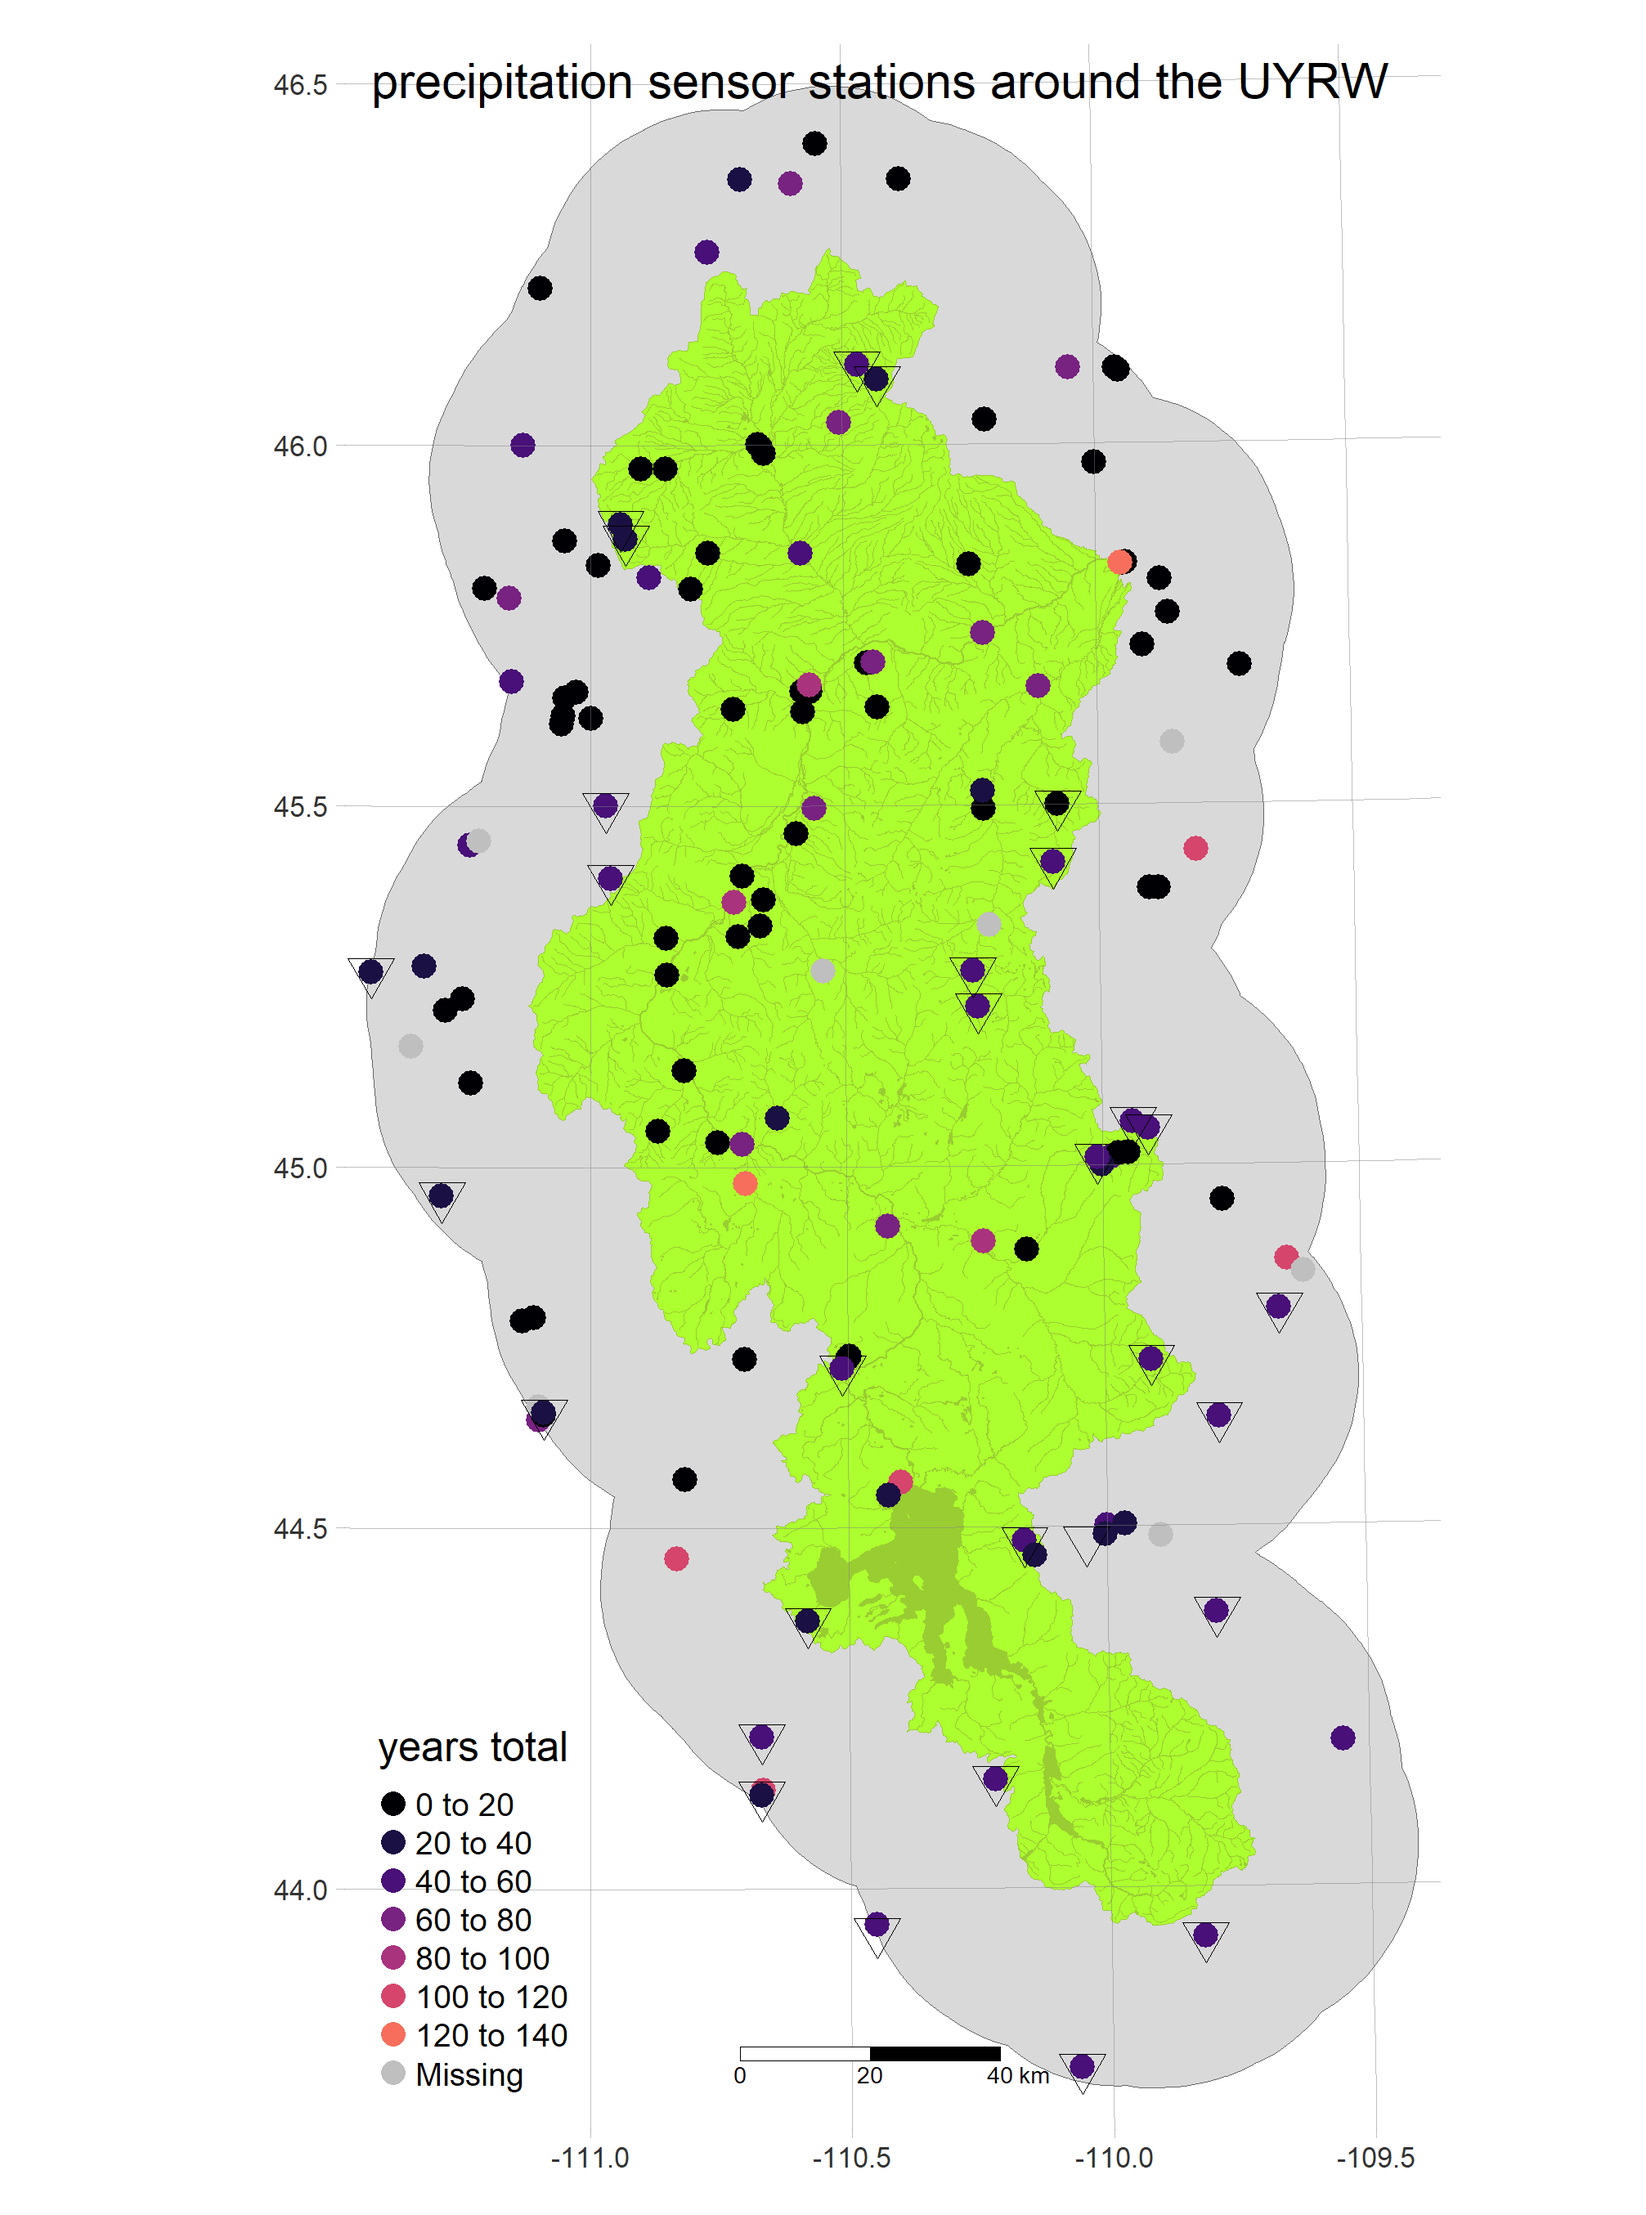
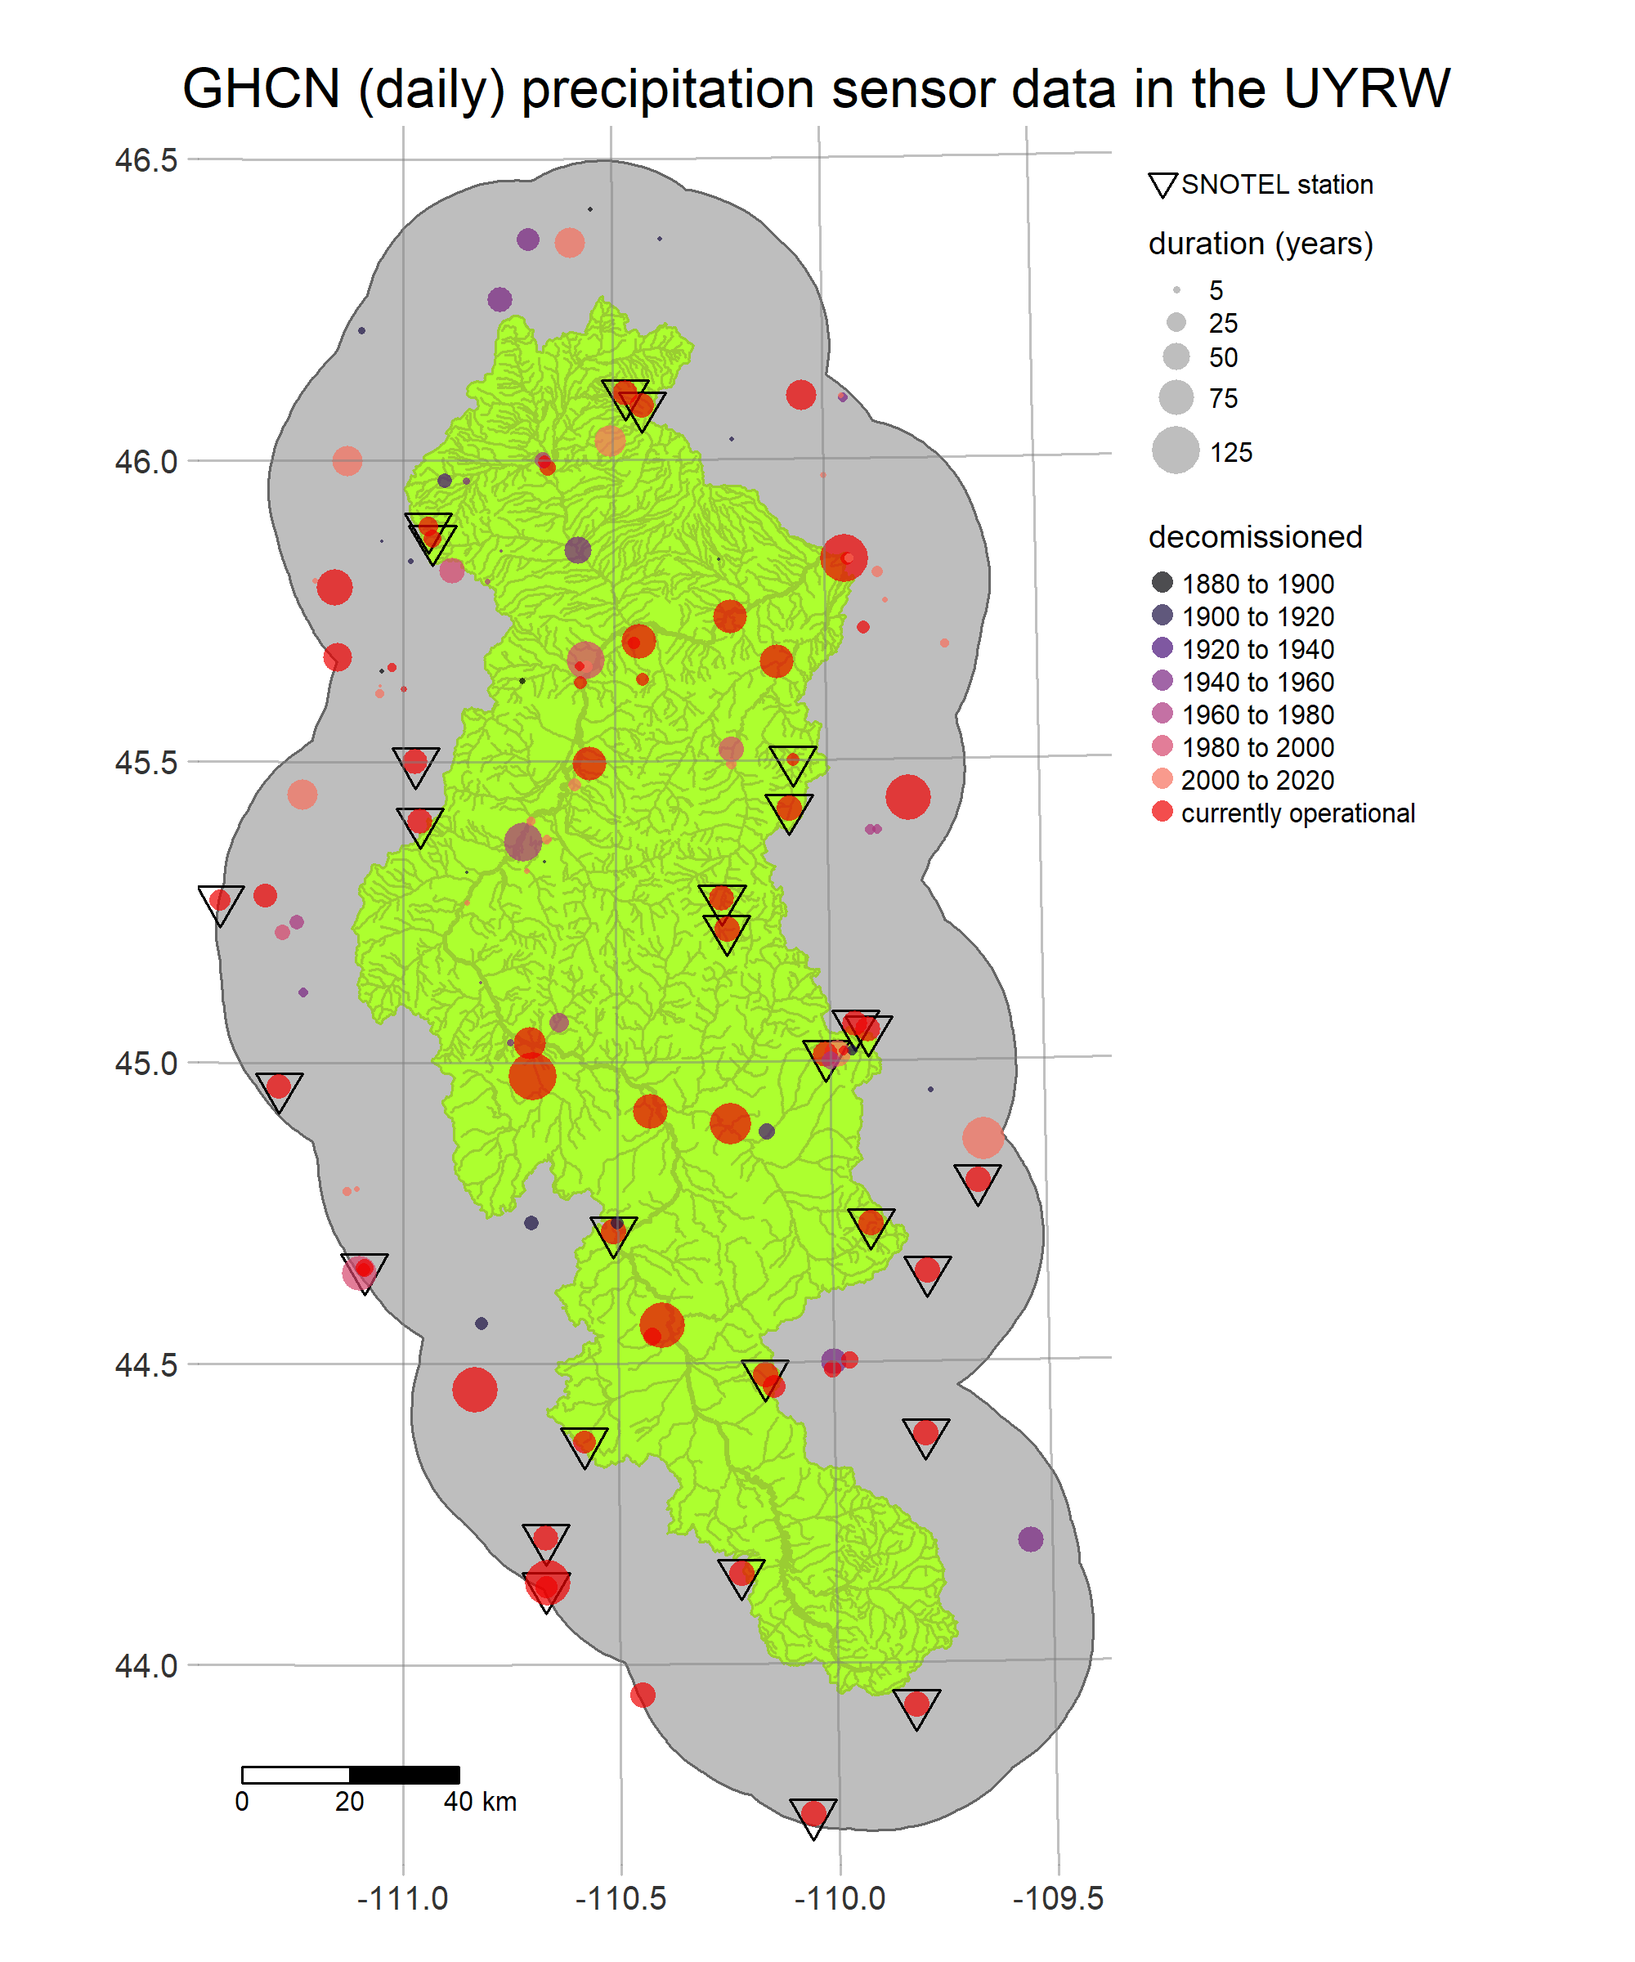
prettier precip stations plot and cleaned up code file

diff --git a/get_weatherstations.knit.md b/get_weatherstations.knit.md
@@ -232,7 +232,7 @@ if(!file.exists(here(weatherstation.metadata.df['ghcnd', 'file'])))
   # some (polar area) points are undefined in the UTM transformation, remove them
   ghcnd.sf = ghcnd.sf[!st_is_empty(ghcnd.sf),]
   
-  # clip to UYRW watershed region (65 stations) then join with the other attributes that are constant across "id"
+  # clip to UYRW watershed region (138 stations) then join with the other attributes that are constant across "id"
   ghcnd.sf = st_intersection(ghcnd.sf, uyrw.padded.poly)
   idx.ghcnd.uyrw = which(!idx.duplicateID)[ghcnd.df$id[!idx.duplicateID] %in% ghcnd.sf$id]
   ghcnd.sf = cbind(ghcnd.sf, ghcnd.df[idx.ghcnd.uyrw, c('longitude', 'latitude', 'elevation', 'name')])
@@ -270,28 +270,6 @@ if(!file.exists(here(weatherstation.metadata.df['ghcnd', 'file'])))
   ghcnd.sf = readRDS(here(weatherstation.metadata.df['ghcnd', 'file']))
   
 } 
-  
-  
-
-
-
-
-
-
-
-
-
-
-
-
-# define a new attribute: the number of years in the record
-year.start = sapply(strsplit(snotel.sf$start, '-'), function(xx) as.numeric(xx[[1]]))
-year.end = sapply(strsplit(snotel.sf$end, '-'), function(xx) as.numeric(xx[[1]]))
-# snotel.sf$duration = year.end - year.start 
-
-
-# split the points into upper and lower, for plotting text labels that don't overlap
-idx.lower = snotel.sf$site_name %in% c('s fork shields ', 'sacajawea ', 'monument peak ')
 ```
 
 
@@ -300,60 +278,66 @@ idx.lower = snotel.sf$site_name %in% c('s fork shields ', 'sacajawea ', 'monumen
 
 
 ```r
-# define a padded bounding box for plotting
-# cex.xlim = 1.8
-# cex.ylim = 1.1
-# uyrw.xlim.larger = crs.list$dims$xlim + (cex.xlim-1)*c(-1,1)*diff(crs.list$dims$xlim)/2
-# uyrw.ylim.larger = crs.list$dims$ylim + (cex.ylim-1)*c(0,1)*diff(crs.list$dims$ylim)/2
+# make a copy of the points datasets, omitting stations with only temperature data
+idx.onlytemp = is.na(ghcnd.sf$PRCP) & is.na(ghcnd.sf$SNWD) & is.na(ghcnd.sf$SNOW)
+precip.sf = ghcnd.sf[!idx.onlytemp,]
 
-# determine some reasonable dimensions (in pixels) for output
-# flowlines.png.res = round(c(diff(uyrw.xlim.larger), diff(uyrw.ylim.larger))/100)
+# add columns for duration and end-year of time series for precipitation
+years.PRCP = strsplit(precip.sf$PRCP,'-')
+endyear.PRCP = sapply(years.PRCP, function(xx) as.numeric(xx[2]))
+duration.PRCP = endyear.PRCP - sapply(years.PRCP, function(xx) as.numeric(xx[1]))
+precip.sf$duration = duration.PRCP
+precip.sf$endyear = endyear.PRCP
+precip.sf$endyear[precip.sf$endyear == 2020] = NA
 
-# plot the SNOTEL stations as a png file
+# add a dummy column for plotting SNOTEL stations
+precip.sf$constant = 'SNOTEL station'
+
+# plot precipitation sensor station locations as a png file
 if(!file.exists(here(weatherstation.metadata.df['img_weatherstation', 'file'])))
 {
+  # build the tmap plot object
+  tmap.precip = tm_shape(uyrw.padded.poly) +
+                  tm_polygons(col='gray', border.col=NA) +
+                tm_shape(uyrw.poly) +
+                  tm_polygons(col='greenyellow', border.col='yellowgreen') +
+                tm_shape(uyrw.mainstem) +
+                  tm_lines(col='yellowgreen', lwd=2) +
+                tm_shape(uyrw.flowline) +
+                  tm_lines(col='yellowgreen') +
+                tm_shape(precip.sf[!is.na(precip.sf$snowtel_id),]) +
+                  tm_dots(col='constant', palette='black', size=0.5, shape=6, title='') +
+                tm_shape(precip.sf) +
+                  tm_dots(size='duration',
+                          col='endyear',
+                          shape=16,
+                          palette='magma',
+                          alpha=0.7, 
+                          contrast=0.7, 
+                          title.size='duration (years)',
+                          legend.size.is.portrait = TRUE,
+                          shapes.legend.fill='grey',
+                          perceptual = TRUE,
+                          sizes.legend=c(5,25,50,75,125),
+                          title='decomissioned', 
+                          textNA='currently operational',
+                          colorNA='red2') +
+                tm_grid(n.x=4, n.y=5, projection=crs.list$epsg.geo, alpha=0.5) +
+                tm_scale_bar(breaks=c(0, 20, 40), position=c('left', 'bottom'), text.size=0.5) +
+                tm_layout(main.title='GHCN (daily) precipitation sensor data in the UYRW',
+                          main.title.size=1,
+                          main.title.position='center',
+                          legend.title.size=0.7,
+                          legend.text.size=0.5,
+                          frame=FALSE,
+                          legend.format=list(fun=function(x) formatC(x, digits=0, format='d')),
+                          legend.outside=TRUE,
+                          legend.outside.position='right',
+                          title.snap.to.legend=FALSE)
+  
+  
   # render/write the plot
-  # png(here(weatherstation.metadata.df['img_snotel', 'file']), width=flowlines.png.res[1], height=flowlines.png.res[2], pointsize=56)
-  png(here(weatherstation.metadata.df['img_weatherstation', 'file']), width=flowlines.png.res[1], height=flowlines.png.res[2], pointsize=56)
-
-    # print(tm_shape(uyrw.padded.poly, xlim=uyrw.xlim.larger, ylim=uyrw.ylim.larger) + 
-    #         tm_polygons(col='greenyellow', border.col='yellowgreen') +
-    #       tm_shape(uyrw.flowline) +
-    #         tm_lines(col='dodgerblue3') +
-    #       tm_shape(uyrw.mainstem) +
-    #         tm_lines(col='dodgerblue4', lwd=2) +
-    #       tm_shape(uyrw.waterbody) + 
-    #         tm_polygons(col='deepskyblue3', border.col='deepskyblue4') +
-    #       tm_shape(snotel.sf[idx.lower,]) +
-    #         tm_dots(size=0.5, col='red') +
-    #         tm_text('site_name', just='bottom', ymod=-0.8, size=0.8) +
-    #       tm_shape(snotel.sf[!idx.lower,]) +
-    #         tm_dots(size=0.5, col='red') +
-    #         tm_text('site_name', just='top', ymod=0.8, size=0.8) +
-    #       tm_grid(n.x=4, n.y=5, projection=crs.list$epsg.geo, alpha=0.5) +
-    #       tm_scale_bar(breaks=c(0, 20, 40), position=c('center', 'bottom'), text.size=0.5) +
-    #       tm_layout(title='SNOTEL stations in the UYRW', title.position=c('center', 'TOP'), frame=FALSE))
-    
-    print(tm_shape(uyrw.padded.poly) +
-      tm_polygons(border.col=NA) +
-    tm_shape(uyrw.poly) +
-      tm_polygons(col='greenyellow', border.col='yellowgreen') +
-    tm_shape(uyrw.flowline) +
-      tm_lines(col='yellowgreen') +
-    tm_shape(uyrw.mainstem) +
-      tm_lines(col='yellowgreen', lwd=2) +
-    tm_shape(uyrw.waterbody) + 
-      tm_polygons(col='yellowgreen', border.col='yellowgreen') +
-    tm_shape(ghcnd.sf[!is.na(ghcnd.sf$SNOW),]) +
-      tm_dots(size=0.1, col='red') +
-    tm_shape(snotel.sf) +
-      tm_dots(size=0.1, col='purple') +
-      tm_grid(n.x=4, n.y=5, projection=crs.list$epsg.geo, alpha=0.5) +
-      tm_scale_bar(breaks=c(0, 20, 40), position=c('center', 'bottom'), text.size=0.5) +
-      tm_layout(title='climatic sensor stations in the UYRW', title.position=c('center', 'TOP'), frame=FALSE))
-
-    
-  dev.off()
+  tmap_save(tm=tmap.precip, here(weatherstation.metadata.df['img_weatherstation', 'file']), width=2000, height=2400, pointsize=16)
 }
 ```
 
@@ -367,7 +351,7 @@ Data downloads look like this:
 
 ```r
 # xx = meteo_pull_monitors('US1MTPK0001')
-# yy = snotel_download(site_id = 806, internal=TRUE)
+# yy = snotel_download(site_id = 363, internal=TRUE)
 ```
 
 
